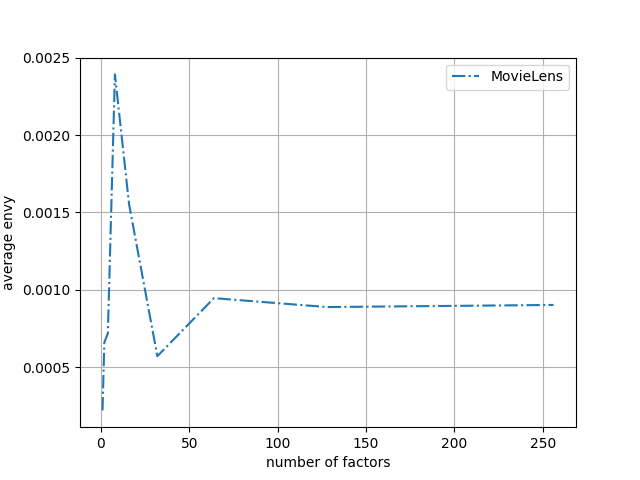
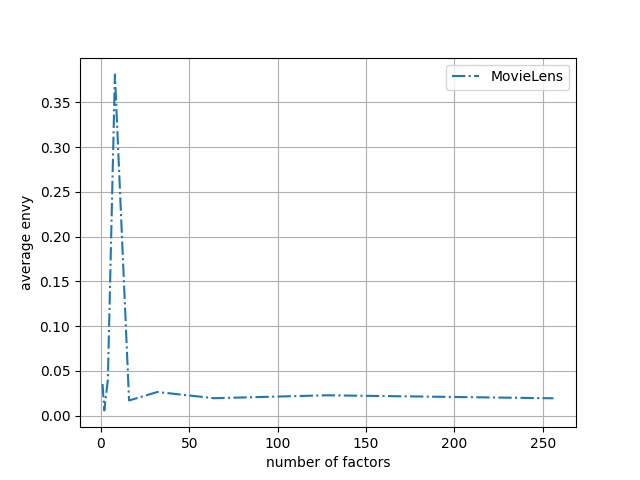
Batch multiprocessing training for preference est. models

diff --git a/vN/src/lib/recommender.py b/vN/src/lib/recommender.py
@@ -14,27 +14,36 @@ import scipy
 from scipy import sparse
 from tqdm import tqdm
 import multiprocessing as mp
+import time
 
 # 1st party imports
 from lib import istarmap
+from lib import helper
 
-def train_model(hyperparameter_configurations, i, train, validation):
-    params = hyperparameter_configurations[i]
+def train_model(hyperparameter_configurations, batch, train, validation):
+    results = {}
+    
+    print("Processing batch {}...".format(batch))
 
-    # Create model
-    model = AlternatingLeastSquares(factors=params["latent_factor"],
-                                    regularization=params["reg"],
-                                    alpha=params["alpha"])
+    # Train low-rank matrix completion algorithm (Bell and Sejnowski 1995)
+    for i, params in enumerate(hyperparameter_configurations):
+        # Create model
+        model = AlternatingLeastSquares(factors=params["latent_factor"],
+                                        regularization=params["reg"],
+                                        alpha=params["alpha"])
 
-    # Train model
-    model.fit(train, show_progress=False)
+        # Train model
+        model.fit(train, show_progress=False)
 
-    # Validate model
-    precision = AUC_at_k(model, train, validation, K=100, show_progress=False)
-    return {"latent_factor": params["latent_factor"], "result": {precision: {"i_params": i, "params": params, "p_val": precision, "model": model}}} 
+        # Validate model
+        precision = AUC_at_k(model, train, validation, K=100, show_progress=False)
+
+        results[i] = {"latent_factor": params["latent_factor"], "result": {"p_val": precision, "model": model, "params": params}} 
+
+    return results
 
 # Create a recommendation system's preference estimation model using the given "ground truth"
-def create_recommendation_est_system(ground_truth, hyperparameter_configurations, split={"train": 0.7, "validation": 0.1}):
+def create_recommendation_est_system(ground_truth, hyperparameter_configurations, split={"train": 0.7, "validation": 0.1}, multiprocessing=True):
     """
     Generates models that simulate a recommender system's estimation of preferences using low-rank matrix completion (Bell and Sejnowski 1995)
 
@@ -68,20 +77,50 @@ def create_recommendation_est_system(ground_truth, hyperparameter_configurations
     # for each latent factor
     models = {key: {} for key in keys}
 
-    print("Generating recommender preference estimation models...MULTIPROCESSING")
+    start = time.time()
 
-    # Train low-rank matrix completion algorithm (Bell and Sejnowski 1995)
-    # pool = mp.Pool(mp.cpu_count())
-    # for result in pool.starmap(train_model, [(hyperparameter_configurations, i, train, validation) for i in range(len(hyperparameter_configurations))]):
-    #     models[result["latent_factor"]] = result["result"]
-    # pool.close()
 
-    with mp.Pool(mp.cpu_count()) as pool:
-        iterable = [(hyperparameter_configurations, i, train, validation) for i in range(len(hyperparameter_configurations))]
-        for result in tqdm(pool.istarmap(train_model, iterable), total=len(iterable)):
-            models[result["latent_factor"]] = result["result"]
-    pool.close()
-    
+    # Multiprocessing: assign a batch of models to a processor
+    if multiprocessing:
+        print("Generating recommender preference estimation models...MULTIPROCESSING")
+        # Generate random batches of hyperparameter configurations for multiprocessing
+        configurations_batches = helper.get_dictionary_subsets(hyperparameter_configurations, 4)
+
+        with mp.Pool(mp.cpu_count()) as pool:
+            iterable = [(batch, i, train, validation) for i, batch in configurations_batches.items()]
+            for batch_results in tqdm(pool.istarmap(train_model, iterable), total=len(iterable)):
+                for result in batch_results.values():
+                    models[result["latent_factor"]][result["result"]["p_val"]] = result["result"] 
+        pool.close()
+    # Sequential
+    else:
+        print("Generating recommender preference estimation models...SEQUENTIAL")
+        print("Processing batch {}...".format(1))
+
+        # NOT DRY (Don't Repeat Yourself)! Could have called the train() function, but function calls might have too much overhead in Python
+        for i in tqdm(range(len(hyperparameter_configurations))):
+            params = hyperparameter_configurations[i]
+
+            # Create model
+            model = AlternatingLeastSquares(factors=params["latent_factor"],
+                                            regularization=params["reg"],
+                                            alpha=params["alpha"])
+
+            # Train model
+            model.fit(train, show_progress=False)
+
+            # Validate model
+            precision = AUC_at_k(model, train, validation, K=100, show_progress=False)
+
+            models[params["latent_factor"]][precision] =  {"p_val": precision, "model": model, "params": params}
+
+        # for result in train_model(list(hyperparameter_configurations.values()), 1, train, validation):
+        #     models[result["latent_factor"]][result["result"]["p_val"]] = result["result"] 
+        
+    print(models)
+    end = time.time()
+    print(end - start)
+
     return models
 
 def select_best_recommendation_est_system(recommendation_system_est_model, select_mode="latent"):
@@ -125,7 +164,7 @@ def recommendation_estimation(recommendation_est_system_model):
     # Calculate estimated preference scores
     return recommendation_est_system_model.user_factors @ recommendation_est_system_model.item_factors.T
 
-def create_recommendation_policies(preference_estimates, temperature=5):
+def create_recommendation_policies(preference_estimates, temperature=1/5):
     """
     Generates the recommendation policies given the estimated preference scores. 
     The recommendation policies we consider are softmax distributions over the predicted scores with fixed inverse temperature. 
@@ -136,12 +175,6 @@ def create_recommendation_policies(preference_estimates, temperature=5):
     :returns:               the picked policy (i.e. recommended item) -> recommendation, the probability of recommending an item to a user -> user policies
     """
     print("Generating recommendation policies...")
-
-    # def inverse_temperature(x):
-    #     return x/temperature
-
-    # apply_temperature = np.vectorize(inverse_temperature)   
-    # preference_estimates = apply_temperature(preference_estimates)
 
     # Apply temperature parameter   
     divider = np.full(preference_estimates.shape[0], temperature)

diff --git a/vN/src/main.py b/vN/src/main.py
@@ -106,7 +106,7 @@ if __name__ == "__main__":
 
         # Only when not yet generated
         if not path.exists(recommendation_system_est_models_file_path):
-            recommendation_system_est_models = recommender.create_recommendation_est_system(ground_truth, configurations, split={"train": 0.7, "validation": 0.1})
+            recommendation_system_est_models = recommender.create_recommendation_est_system(ground_truth, configurations, split={"train": 0.7, "validation": 0.1}, multiprocessing=True)
 
             ## SAVE: Save models that can estimate preferences as a recommender system would
             io.save(IO_INFIX + recommendation_system_est_models_file, (recommendation_system_est_models_var_name, recommendation_system_est_models))
@@ -162,11 +162,10 @@ if __name__ == "__main__":
         expec_rewards_var_name = expec_rewards_file + VAR_EXT
 
         # We generate binary rewards using a Bernoulli distribution with expectation given by our ground truth
-        if not path.exists(rewards_file_path):
+        if not path.exists(rewards_file_path) or not path.exists(expec_rewards_file_path):
             rewards, expec_rewards = recommender.create_rewards(ground_truth)
             io.save(IO_INFIX + rewards_file, (rewards_var_name, rewards))
             io.save(IO_INFIX + expec_rewards_file, (expec_rewards_var_name, expec_rewards))
-
 
         # LOAD: Load binary rewards and expectation of rewards
         io.load(IO_INFIX + rewards_file, my_globals)
@@ -201,7 +200,7 @@ if __name__ == "__main__":
         
         # Only perform experiment when not yet executed
         if len(os.listdir(experiment_dir_path)) == 0 and (experiment_choice == "5.1" or experiment_choice == "all"):    
-            print("Running experiment...", experiment_dir)    
+            print("**Running experiment...", experiment_dir)    
         
             keys = recommendation_policies.keys()
             envy_free = {key: {} for key in keys}
@@ -238,21 +237,24 @@ if __name__ == "__main__":
                                                     prop_envious_users_file: prop_envious_users
                                                 }        
 
-    # # Average envy plotted together    
-    # plot.plot_experiment_5_1A([data_sets[0]["experiments_results"]["5.1"]["avg_envy_user"], data_sets[1]["experiments_results"]["5.1"]["avg_envy_user"]],
-    #                         "average envy", "number of factors", "MovieLens", "Last.fm", "average_envy")
+    """
+    TO DO: Still have to make this dynamic
+    """
+    # Average envy plotted together    
+    plot.plot_experiment_5_1A([data_sets["movie"]["experiments_results"]["5.1"]["avg_envy_user"], data_sets["fm"]["experiments_results"]["5.1"]["avg_envy_user"]],
+                            "average envy", "number of factors", "MovieLens", "Last.fm", "average_envy")
 
-    # # print(data_sets[1]["experiments_results"]["5.1"]["prop_envious_users"])
+    # print(data_sets[1]["experiments_results"]["5.1"]["prop_envious_users"])
 
     # # Proportion of envious users plotted together
     # plot.plot_experiment_5_1A([data_sets[0]["experiments_results"]["5.1"]["prop_envious_users"], data_sets[1]["experiments_results"]["5.1"]["prop_envious_users"]],
-    #                         "prop of envious users (epsilon = 0.05)", "number of factors", "MovieLens", "Last.fm", "prop_envious_users")
+                            # "prop of envious users (epsilon = 0.05)", "number of factors", "MovieLens", "Last.fm", "prop_envious_users")
 
-    # # Average envy plotted seperately
-    # plot.plot_experiment_single([data_sets[0]["experiments_results"]["5.1"]["avg_envy_user"]],
-    #                         "average envy", "number of factors", "MovieLens", "average_envy_mv")
-    # plot.plot_experiment_single([data_sets[1]["experiments_results"]["5.1"]["avg_envy_user"]],
-    #                         "average envy", "number of factors", "Last.fm", "average_envy_fm", 1)
+    # Average envy plotted seperately
+    plot.plot_experiment_single([data_sets["movie"]["experiments_results"]["5.1"]["avg_envy_user"]],
+                            "average envy", "number of factors", "MovieLens", "average_envy_mv")
+    plot.plot_experiment_single([data_sets["fm"]["experiments_results"]["5.1"]["avg_envy_user"]],
+                            "average envy", "number of factors", "Last.fm", "average_envy_fm", 1)
 
 
     # # Try algorithm for one model

diff --git a/vN/src/lib/helper.py b/vN/src/lib/helper.py
@@ -53,3 +53,12 @@ def get_index_best_model(model_train_results):
     """
     precision_models = [item[0] for item in model_train_results]
     return precision_models.index(max(precision_models))
+
+def get_dictionary_subsets(dictionary, n):
+    keys = np.array(list(dictionary.keys()))
+    # Random split selection
+    np.random.shuffle(keys)
+
+    # Generate n splits of the dictionary
+    subsets_keys = np.split(keys, n) 
+    return {i: [dictionary[key] for key in subset_keys] for i, subset_keys in enumerate(subsets_keys)}
